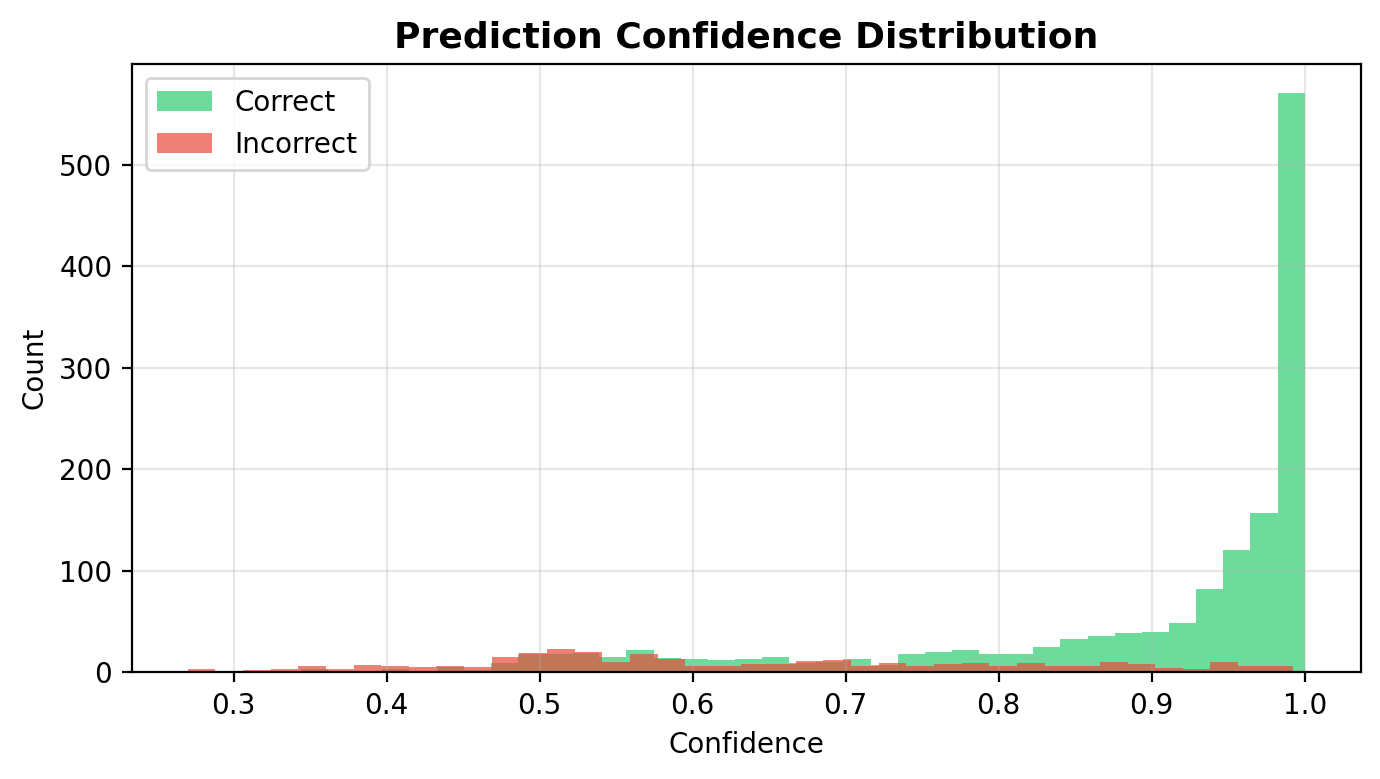
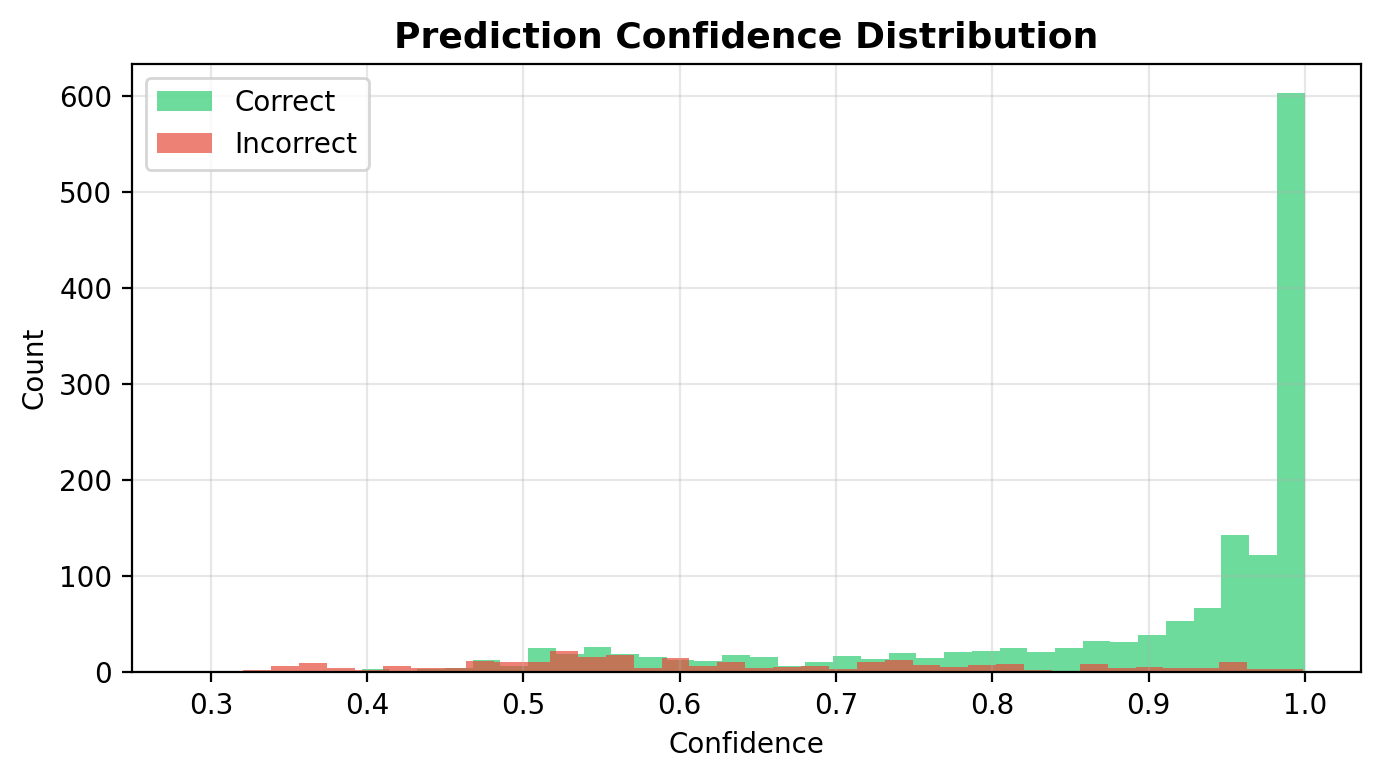
New labels

diff --git a/src/data_generation/generate_dataset.py b/src/data_generation/generate_dataset.py
@@ -2,12 +2,12 @@
 """
 Dataset generator for System Identification (Piroddi & Leva, 2007).
 Generates step response data for 6 transfer function classes:
-  Class1_FOPTD       : mu / (1 + sT)
-  Class2_SOPTD       : mu / ((1+sT1)(1+sT2))
+  Class1_FirstOrder  : mu / (1 + sT)
+  Class2_Overdamped  : mu / ((1+sT1)(1+sT2))
   Class3_NMP         : mu(1-sT_z) / ((1+sT1)(1+sT2))
-  Class4_Underdamped : mu(1+sT_z) / ((1+sT1)(1+sT2)),  T_z > T1, T2
-  Class5_HighOrder   : mu*wn^2 / (s^2 + 2*zeta*wn*s + wn^2)
-  Class6_Integrator  : mu*wn^2 / ((sT+1)(s^2 + 2*zeta*wn*s + wn^2))
+  Class4_Underdamped : mu*wn^2 / (s^2 + 2*zeta*wn*s + wn^2),  zeta < 1
+  Class5_HighOrder   : mu / ((1+sT1)(1+sT2)(1+sT3)(1+sT4))  — 4th order
+  Class6_Integrator  : mu / (s*(1+sT))  — true integrator, ramp response
 
 Variant system
 --------------
@@ -72,13 +72,13 @@ VARIANT_CONFIG = {
 # Transfer function generators
 # ──────────────────────────────────────────────────────────────
 
-def class1_foptd(rng):
+def class1_first_order(rng):
     """G(s) = mu / (1 + sT)"""
     mu = rng.uniform(0.5, 5.0)
     T  = rng.uniform(1.0, 20.0)
     return sp_signal.TransferFunction([mu], [T, 1.0])
 
-def class2_soptd(rng):
+def class2_overdamped(rng):
     """G(s) = mu / ((1+sT1)(1+sT2))"""
     mu = rng.uniform(0.5, 5.0)
     T1 = rng.uniform(1.0, 15.0)
@@ -95,35 +95,32 @@ def class3_nmp(rng):
     return sp_signal.TransferFunction(num, np.polymul([T1, 1.0], [T2, 1.0]))
 
 def class4_underdamped(rng):
-    """G(s) = mu(1 + sT_z) / ((1+sT1)(1+sT2)),  T_z > T1, T2"""
-    mu = rng.uniform(0.5, 5.0)
-    T1 = rng.uniform(1.0, 10.0)
-    T2 = rng.uniform(1.0, 10.0)
-    Tz = max(T1, T2) + rng.uniform(1.0, 10.0)
-    num = np.array([Tz, 1.0]) * mu
-    return sp_signal.TransferFunction(num, np.polymul([T1, 1.0], [T2, 1.0]))
-
-def class5_high_order(rng):
-    """G(s) = mu*wn^2 / (s^2 + 2*zeta*wn*s + wn^2)"""
+    """G(s) = mu*wn^2 / (s^2 + 2*zeta*wn*s + wn^2),  zeta < 1"""
     mu   = rng.uniform(0.5, 5.0)
     wn   = rng.uniform(0.3, 3.0)
     zeta = rng.uniform(0.05, 0.7)
     return sp_signal.TransferFunction([mu * wn**2], [1.0, 2*zeta*wn, wn**2])
 
+def class5_high_order(rng):
+    """G(s) = mu / ((1+sT1)(1+sT2)(1+sT3)(1+sT4))  — 4th order"""
+    mu = rng.uniform(0.5, 5.0)
+    T1 = rng.uniform(1.0, 10.0)
+    T2 = rng.uniform(1.0, 10.0)
+    T3 = rng.uniform(1.0, 10.0)
+    T4 = rng.uniform(1.0, 10.0)
+    den = np.polymul(np.polymul([T1, 1.0], [T2, 1.0]), np.polymul([T3, 1.0], [T4, 1.0]))
+    return sp_signal.TransferFunction([mu], den)
+
 def class6_integrator(rng):
-    """G(s) = mu*wn^2 / ((sT+1)(s^2 + 2*zeta*wn*s + wn^2))"""
-    mu   = rng.uniform(0.5, 5.0)
-    T    = rng.uniform(1.0, 15.0)
-    wn   = rng.uniform(0.3, 3.0)
-    zeta = rng.uniform(0.05, 0.7)
-    return sp_signal.TransferFunction(
-        [mu * wn**2],
-        np.polymul([T, 1.0], [1.0, 2*zeta*wn, wn**2])
-    )
+    """G(s) = mu / (s*(1+sT))  — true integrator, ramp step response"""
+    mu = rng.uniform(0.02, 0.15)   # small to keep output bounded in T_FINAL=100s
+    T  = rng.uniform(1.0, 15.0)
+    # s*(1+sT) = T*s^2 + s + 0
+    return sp_signal.TransferFunction([mu], [T, 1.0, 0.0])
 
 CLASS_GENERATORS = {
-    'Class1_FOPTD':       class1_foptd,
-    'Class2_SOPTD':       class2_soptd,
+    'Class1_FirstOrder':  class1_first_order,
+    'Class2_Overdamped':  class2_overdamped,
     'Class3_NMP':         class3_nmp,
     'Class4_Underdamped': class4_underdamped,
     'Class5_HighOrder':   class5_high_order,
